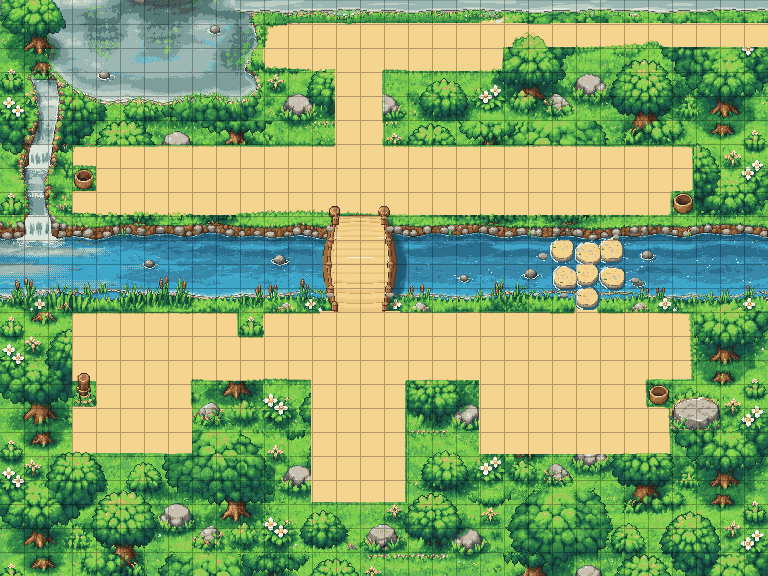
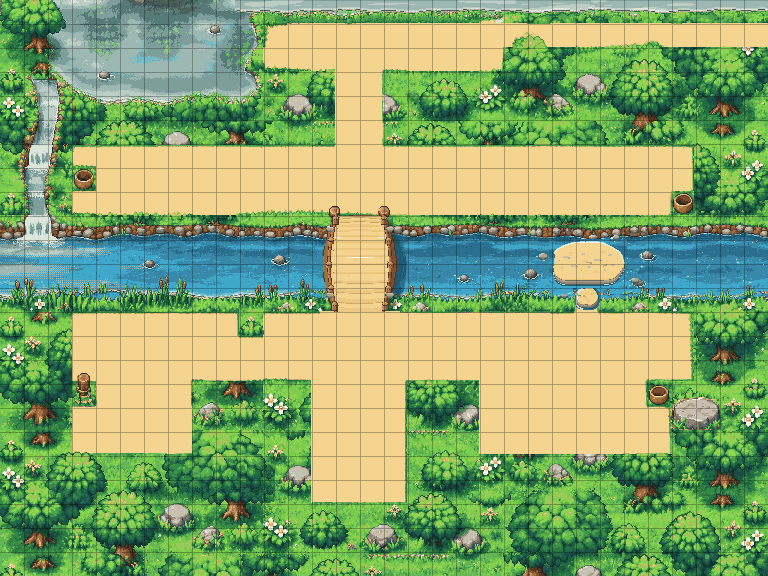
fix(art): 3-2 stepping stones read as the fishing rock, not a broken path
The six stones past the small mist ended at the north bank wall and looked
like a crossing that went nowhere. The story and tests/acts.test.mjs make
that pocket the fishing rock the small mist guards, so the map data stays.
The stones are repainted as one flat rock set apart from the bank, using
only colours already in the map palette (no regeneration, 0 credits).
map-fit score: bad 0.

Claude-Session: https://claude.ai/code/session_017WoqJ7PBE5F4GzxWdiYF3d

Changed region(s): [[0.7188, 0.4062, 0.8125, 0.5312]]

diff --git a/design/art/act3/map-fixes/fishing_rock_3-2.py b/design/art/act3/map-fixes/fishing_rock_3-2.py
@@ -1,0 +1,115 @@
+# 3-2 낚시 바위(2026-11-05, 크레딧 0): 꼬마 물안개(m) 너머 디딤돌 여섯 개(23..25, 10..11)를 넓적한 바위 하나로 다시 칠한다.
+# 디딤돌 여섯 개가 북쪽 냇둑(9행, 벽)에 닿아 끝나 "길이 끊긴 디딤돌"처럼 보였다. 이 칸들은 이야기대로
+# 꼬마 물안개가 막고 있는 낚시 바위(막다른 쉼터)이므로, 냇둑과 물길로 떨어진 바위 하나로 그려 목적지로 읽히게 한다.
+# 색은 맵 색표(64색)에 이미 있는 디딤돌 색만 쓴다. 윗면은 대부분 길 색(13)이라 걷기 칸 검사(길 색 40% 이상)를 넘는다.
+# 저장소 뿌리에서: python3 design/art/act3/map-fixes/fishing_rock_3-2.py <커밋 e84fc81의 3-2 맵> assets/pixel/map_ch3-2_yunseulnae.png
+import math
+import sys
+from PIL import Image
+
+T = 48
+TOP, TOP_HI, TOP_SHADE = 13, 11, 37          # 윗면, 윗가 볕, 윗면 아래 그늘
+GREY, GREY_D, WARM = 10, 61, 32              # 얼룩(밝은 회색, 어두운 회색), 따뜻한 얼룩
+MOSS = (44, 49)
+SIDE = (62, 61, 61, 61, 60, 60, 60, 62, 63)   # 옆면(위에서 아래로)
+OUTLINE, FOAM, SHADOW = 63, 3, 4
+
+src, out = sys.argv[1], sys.argv[2]
+im = Image.open(src)
+assert im.mode == 'P'
+px = im.load()
+
+CX, CY = 24 * T + 24, 11 * T     # 바위 가운데(23..25열, 10..11행의 가운데)
+A, B = 70, 43                        # 반지름(가로, 세로: 옆면 포함)
+SIDE_H = len(SIDE)
+
+
+def wobble(ang):
+    # 둘레를 조금 울퉁불퉁하게(정해진 값: 다시 돌려도 같다)
+    return 1 + 0.035 * math.sin(3 * ang + 0.7) + 0.025 * math.sin(5 * ang + 2.1) + 0.015 * math.sin(9 * ang)
+
+
+def inside(x, y, lift=0):
+    # lift: 윗면은 옆면 높이만큼 위로 올린 같은 꼴
+    dx, dy = (x - CX) / A, (y + lift - CY) / B
+    r = (abs(dx) ** 3.0 + abs(dy) ** 3.0) ** (1 / 3.0)
+    return r <= wobble(math.atan2(dy, dx))
+
+
+def on_top(x, y):
+    return inside(x, y, SIDE_H) and inside(x, y)
+
+
+N4 = ((1, 0), (-1, 0), (0, 1), (0, -1))
+X0, X1, Y0, Y1 = CX - A - 6, CX + A + 6, CY - B - 6, CY + B + 6
+
+# 1) 옛 디딤돌을 지운다: 23..25열 둘레를 같은 줄의 다섯 칸 오른쪽 물(무늬째, 돌 없는 곳)로 덮는다.
+for y in range(10 * T - 2, 12 * T):
+    for x in range(23 * T - 6, 26 * T + 6):
+        px[x, y] = px[x + 5 * T, y]
+# 옛 돌이 12행 위쪽에 남긴 그늘도(꼬마 물안개 디딤돌이 있는 24열은 그대로)
+for y in range(12 * T, 12 * T + 12):
+    for x in [*range(23 * T - 6, 24 * T - 6), *range(25 * T + 6, 26 * T + 6)]:
+        px[x, y] = px[x + 5 * T, y]
+
+# 2) 바위 둘레 물: 거품 테 한 줄, 아래에 그림자
+for y in range(Y0, Y1 + 4):
+    for x in range(X0, X1 + 1):
+        if inside(x, y):
+            continue
+        if any(inside(x + dx, y + dy) for dx, dy in N4):
+            px[x, y] = FOAM
+        elif any(inside(x, y - k) for k in (1, 2, 3)) and not any(inside(x, y + k) for k in (1, 2, 3)):
+            px[x, y] = SHADOW
+
+# 3) 몸통: 옆면(아래쪽 띠)과 윗면
+for y in range(Y0, Y1 + 1):
+    for x in range(X0, X1 + 1):
+        if not inside(x, y):
+            continue
+        edge = not all(inside(x + dx, y + dy) for dx, dy in N4)
+        if on_top(x, y):
+            top_edge = not all(on_top(x + dx, y + dy) for dx, dy in N4)
+            if top_edge:
+                px[x, y] = TOP_HI if y < CY - 4 else TOP_SHADE
+            elif not on_top(x, y + 2):
+                px[x, y] = TOP_SHADE
+            elif not on_top(x, y - 2):
+                px[x, y] = TOP_HI
+            else:
+                px[x, y] = TOP
+        else:
+            k = 0
+            while k < SIDE_H and not on_top(x, y - k - 1):
+                k += 1
+            px[x, y] = OUTLINE if edge else SIDE[min(k, SIDE_H - 1)]
+
+
+# 4) 윗면 얼룩·잔금·이끼(정해진 자리)
+def blot(x0, y0, rx, ry, c, holes=()):
+    for y in range(y0 - ry, y0 + ry + 1):
+        for x in range(x0 - rx, x0 + rx + 1):
+            if ((x - x0) / rx) ** 2 + ((y - y0) / ry) ** 2 > 1 or (x - x0, y - y0) in holes:
+                continue
+            if all(on_top(x + dx, y + dy) for dx, dy in N4) and px[x, y] == TOP:
+                px[x, y] = c
+
+
+for (dx, dy, rx, ry, c) in [
+    (-44, -14, 6, 3, GREY), (-38, -12, 3, 2, GREY_D), (-10, -20, 4, 2, GREY), (18, -8, 7, 3, GREY),
+    (24, -7, 3, 1, GREY_D), (44, -18, 4, 2, GREY), (50, 2, 5, 3, GREY), (-28, 4, 6, 3, GREY),
+    (-22, 5, 2, 1, GREY_D), (2, 6, 4, 2, GREY), (34, 12, 3, 2, GREY), (-52, 8, 3, 2, GREY),
+    (-6, -6, 8, 2, WARM), (30, -24, 6, 2, WARM), (-34, -22, 5, 2, WARM), (16, 16, 6, 2, WARM),
+]:
+    blot(CX + dx, CY + dy, rx, ry, c)
+for (dx, dy, c) in [(-58, -6, MOSS[0]), (-57, -7, MOSS[1]), (-56, -6, MOSS[0]), (58, -10, MOSS[0]), (59, -11, MOSS[1]),
+                    (-14, 14, MOSS[0]), (-13, 13, MOSS[1]), (40, -26, MOSS[0])]:
+    blot(CX + dx, CY + dy, 1, 1, c)
+# 잔금 두 줄(옆면 색)
+for i in range(12):
+    blot(CX - 4 + i, CY - 4 + (i // 4), 1, 1, SIDE[3])
+for i in range(8):
+    blot(CX + 30 + i, CY + 4 - (i // 3), 1, 1, SIDE[3])
+
+im.save(out, optimize=True)
+print('saved', out)
